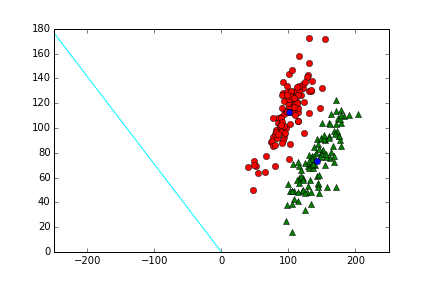
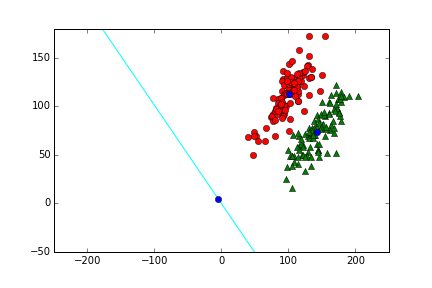
reworked ub06 for exercise (fisher disciminant not perzeptron

diff --git a/ub06/ub06_02.py b/ub06/ub06_02.py
@@ -7,40 +7,15 @@ Created on Tue Dec  1 12:48:38 2015
 import matplotlib.pyplot as plt
 import numpy as np
 
-# perceptron-algorithem with x iterations
-def perceptron(xyClass,belongingClass):
-    k = 0    
-    x = 1000000
-    w = np.zeros(len(xyClass[0])) # len of one row
-    while k < x:
-        random = np.random.randint(0,len(xyClass))
-        randomVector = xyClass[random]
-        randomBelongingClass = belongingClass[random]
-        if (randomBelongingClass):
-            w,k = perceptonPositiv(w,randomVector,k)
-        else:
-            w,k = perceptonNegativ(w,randomVector,k)
-    return w
     
-    
-def perceptonPositiv(w,x,k):
-    if(w.dot(x) >= 0):
-        return w,k
-    else:
-        return w + x ,k+1
+def schnittpunktGauss(mean0,mean1,sigma0,sigma1):
+    p = (2*(mean1*sigma0**2 - mean0*sigma1**2) / (sigma0**2 - sigma1**2))
+    q = (mean0**2 * sigma1**2 - mean1**2 * sigma0**2 - 2*np.log(sigma1/sigma0) * sigma0**2 * sigma1**2) / (sigma1**2 - sigma0**2 )  
+    x1 = -p/2 + np.sqrt((p/2)**2 - q) 
+    x2 = -p/2 - np.sqrt((p/2)**2 - q)
+    return x1,x2
 
-def perceptonNegativ(w,x,k):        
-    if (w.dot < 0):
-        return w,k
-    else:        
-        return w - x, k+1
-    
-    
-def normalize(vector):
-    sum = 0    
-    for x in vector:
-        sum += np.abs(x)
-    return vector / np.sqrt(sum) 
+
 #----------------------------- main -----------------------------
     
 # loadData
@@ -80,12 +55,37 @@ cov0 = np.cov(x0,y0)
 cov1 = np.cov(x1,y1)
 
 # compute the fisher discriminant and plot it (graph of it)
-y = perceptron(allxy,allClass)
-plt.plot( (0,y[0]) , (0,y[1]) , color="cyan")
+skalar = 1
+y = skalar * np.dot((np.linalg.inv(cov0+cov1)), (mean0-mean1))
+plt.plot( (-y[0]*2000,y[0]*2000) , (-y[1]*2000,y[1]*2000) , color="cyan")
+
+# compute new mean
+newMean0 = np.dot(mean0,y)
+newMean1 = np.dot(mean1,y)
+
+# compute sigma for projected data
+sigma0 = np.dot(np.dot(y.T,cov0),y)
+sigma1 = np.dot(np.dot(y.T,cov1),y)
+
+# compute the intersection of both n-pdf
+x1,x2 = schnittpunktGauss(newMean0,newMean1,sigma0,sigma1)
+print "Schnittpunkt1 :",x1
+print "Schnittpunkt2 :",x2
+
+# projekt the intersection-points onto the line
+projektX1 = np.dot(np.dot(x1,y),x1)
+projektX2 = np.dot(np.dot(x2,y),x2)
+
+print "Schnittpunkt1 projeziert:",projektX1
+print "Schnittpunkt2 projeziert:",projektX2
+
+plt.plot(projektX1[0],projektX1[1],'bo')
+plt.plot(projektX2[0],projektX2[1],'bo')
+
 
 # configureation of the plot, save the plot and show it
 plt.xlim(-250,250)
-plt.ylim(0,180)
+plt.ylim(-50,180)
 plt.savefig("LCA.png")
 plt.show()
 
